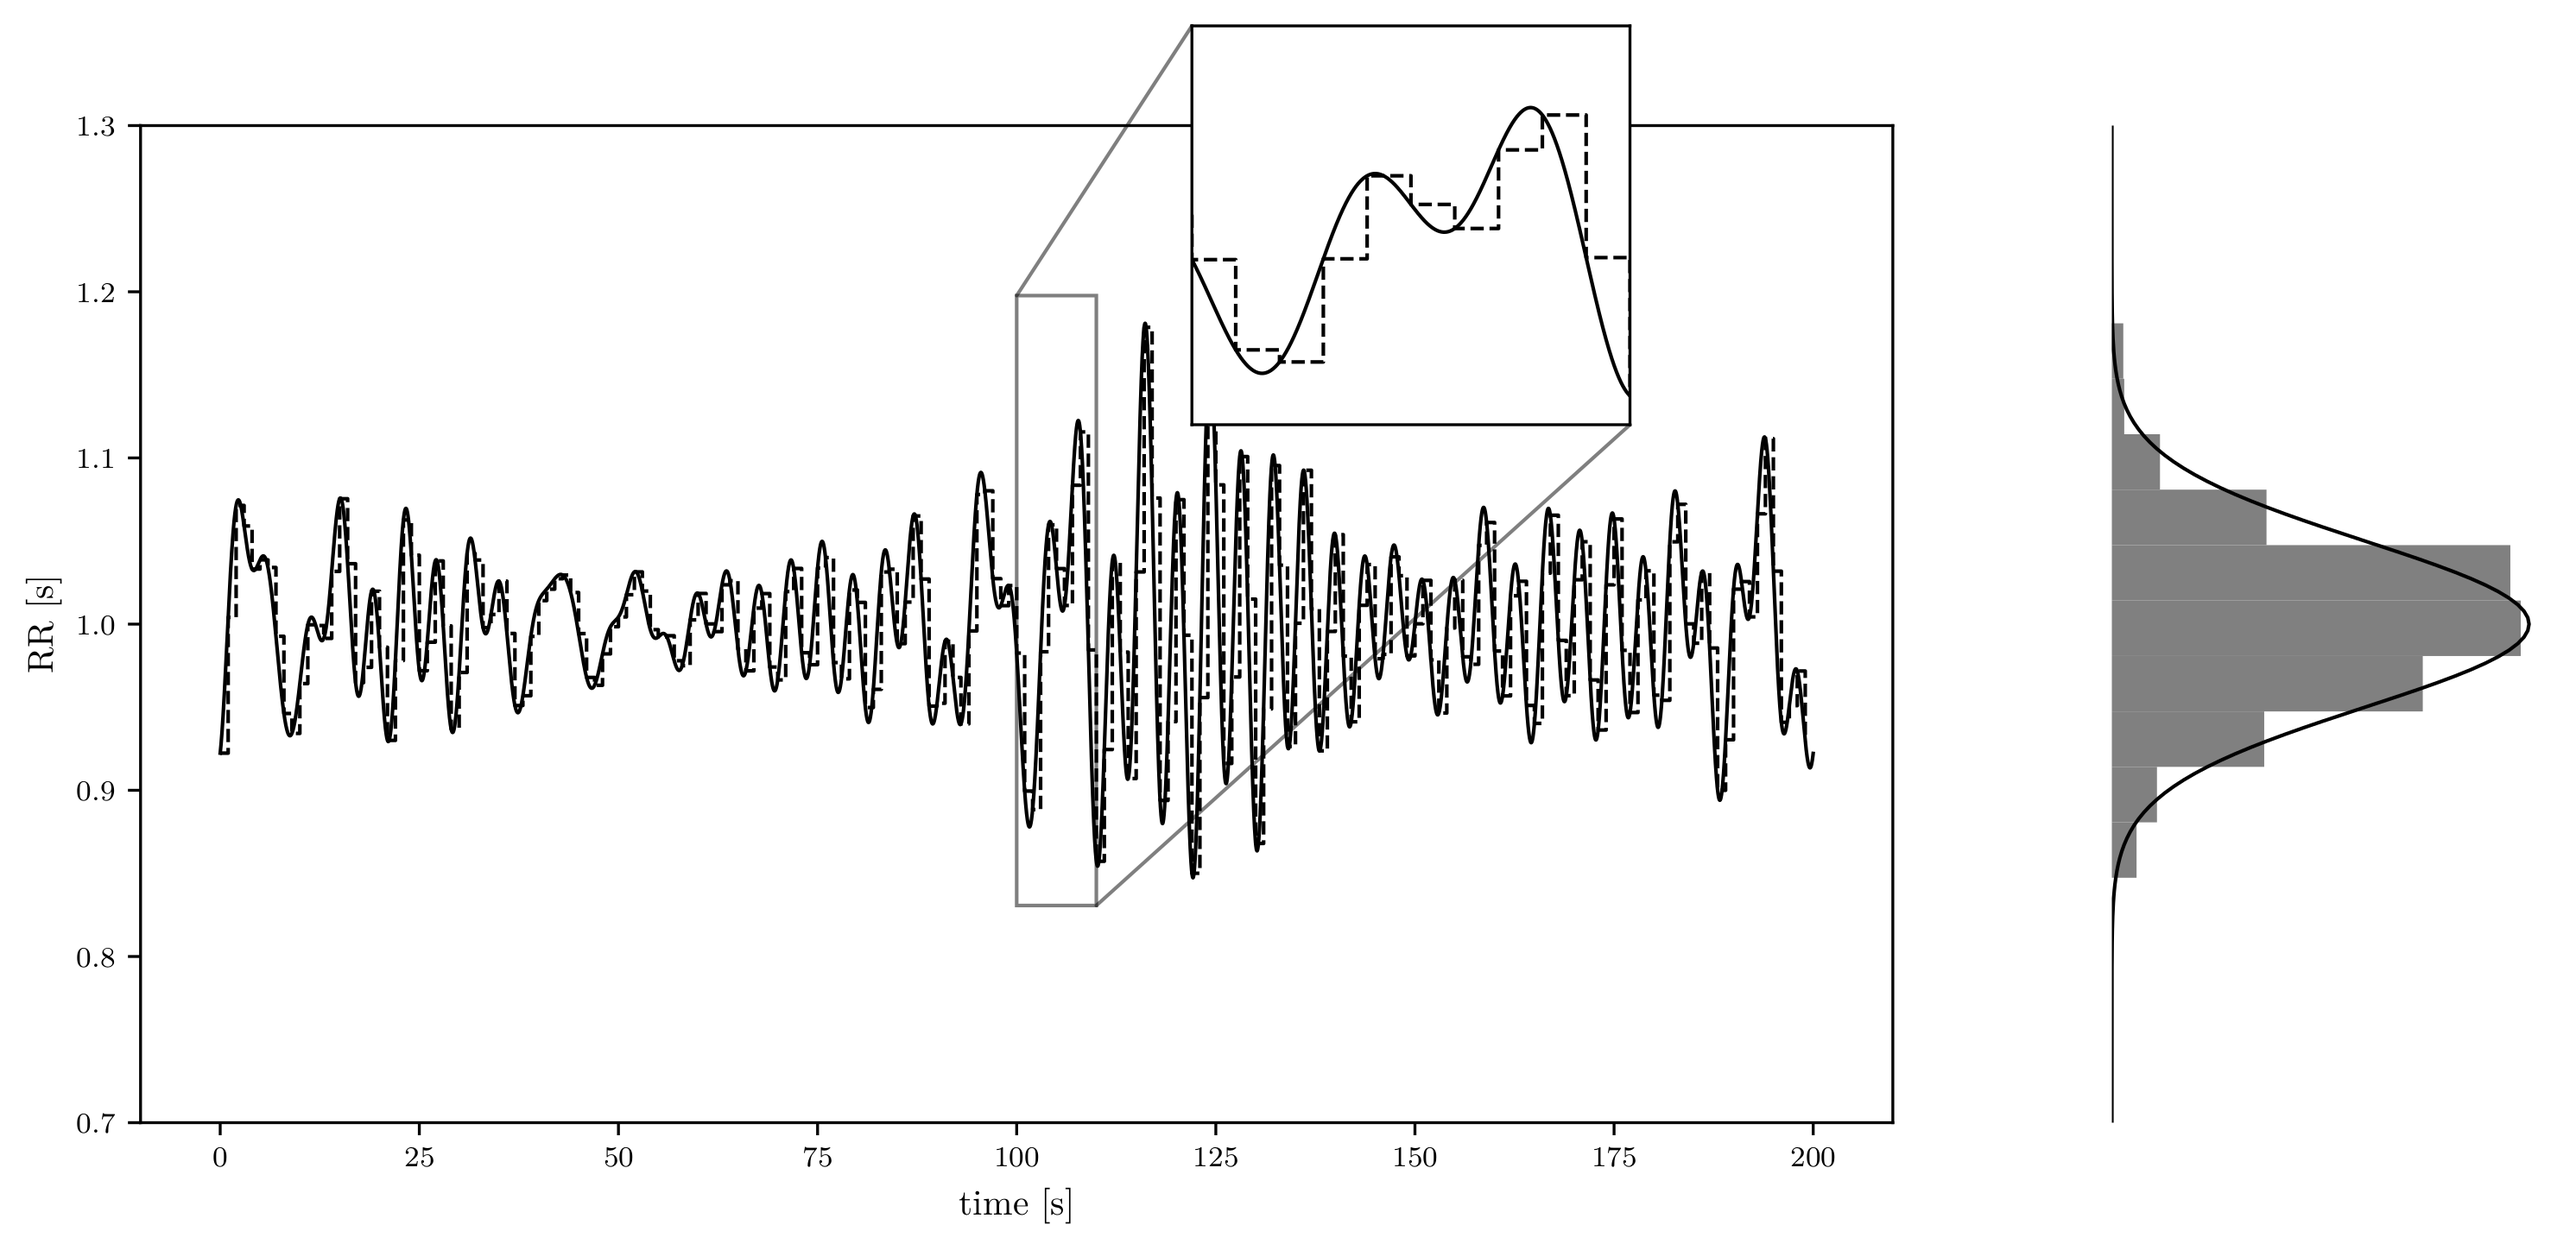
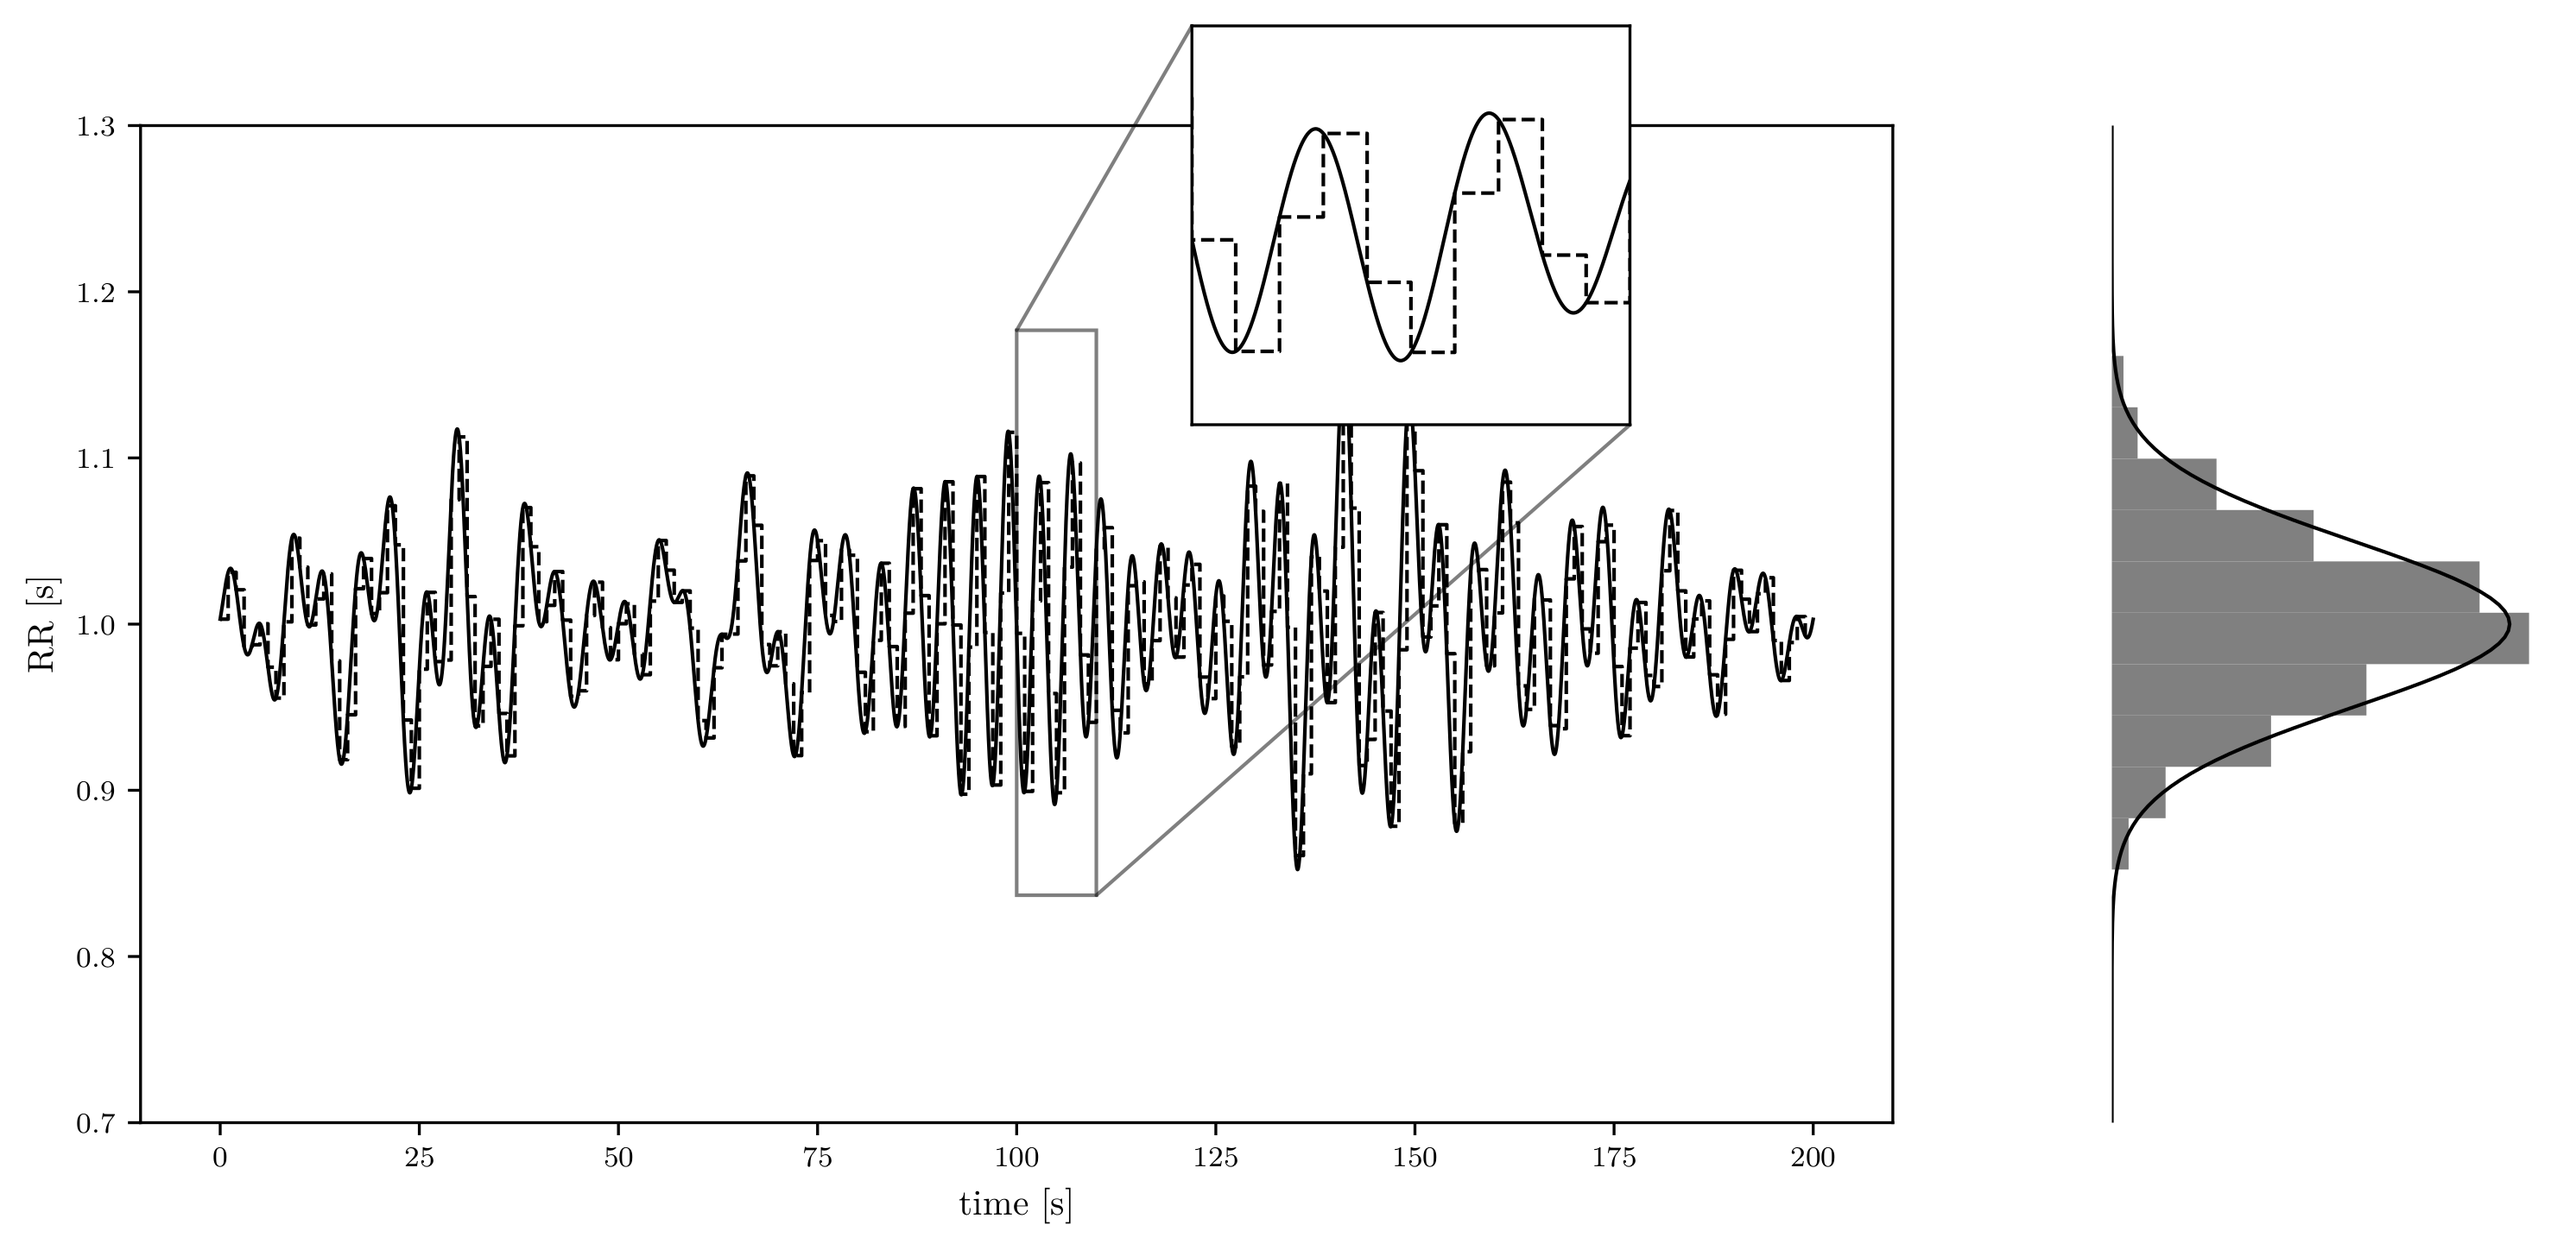
refactor for agnostic models

diff --git a/src/ecg_simulator/core.py b/src/ecg_simulator/core.py
@@ -4,6 +4,7 @@ import numpy as np
 import scipy as sp
 from typing import Callable, Literal, TypedDict, Tuple
 import colorednoise as cn 
+from abc import ABC, abstractmethod
 
 class FunFeatures(TypedDict):
     a: float # V   
@@ -11,37 +12,15 @@ class FunFeatures(TypedDict):
     σ: float # rad
 
 class BeatFeatures(TypedDict):
-    P: FunFeatures
-    Q: FunFeatures
-    R: FunFeatures
-    S: FunFeatures
-    T: FunFeatures
+    Waves: TypedDict
     RR: float
-
-def v(θ, fe: FunFeatures):
-    return ( θ % (2*np.pi) - fe['μ'] ) / fe['σ']
-
-def g(v, fe: FunFeatures):
-    return fe['a'] * np.exp( -.5 * v**2 )
-
-def dgdt(p, ω, fe: FunFeatures):
-    θ, _, _ = p
-    vi = v(θ, fe)
-    return - g(vi, fe) * vi * ω / fe['σ']
-
-def model(θ, fe: BeatFeatures):
-    return  g(v(θ, fe['P']), fe['P']) + \
-            g(v(θ, fe['Q']), fe['Q']) + \
-            g(v(θ, fe['R']), fe['R']) + \
-            g(v(θ, fe['S']), fe['S']) + \
-            g(v(θ, fe['T']), fe['T'])
 
 def repeater(iterable: Tuple, repeat: int = 1):
     for item in iter(iterable):
         for _ in range(repeat):
             yield item
 
-class Simulator:
+class AbstractSimulator(ABC):
 
     def __init__(self, fs: int, ζ: float = 0., resp: Tuple[float] = (0., 0.)) -> None:
         Ar, fr = resp 
@@ -50,27 +29,28 @@ class Simulator:
         self.fs = fs
         self.ζ = ζ
 
-    def system(self, t, p):
-        θ, ρ, z = p
-
-        # beat selector
+    def beat_selector(self, t):
         if t >= self.acc:
             self.fe = next(self.features)
             self.acc += self.fe['RR']
 
+    @abstractmethod
+    def dfdt(self, p, ω):
+        raise NotImplementedError
+    
+    def system(self, t, p):
+        θ, ρ, z = p
+        self.beat_selector(t)
         ω = 2*np.pi / self.fe['RR']
         return [ 
             ω,
             (1. - ρ ) * ρ,
-            dgdt(p, ω, self.fe['P']) + 
-            dgdt(p, ω, self.fe['Q']) + 
-            dgdt(p, ω, self.fe['R']) + 
-            dgdt(p, ω, self.fe['S']) + 
-            dgdt(p, ω, self.fe['T']) -
-            self.ζ * z + self.cr*np.sin(self.wr*t)
+            self.dfdt(p, ω) - self.ζ * z + self.cr*np.cos(self.wr*t)
         ]
     
-    def solve(self, features: Tuple[BeatFeatures]):
+    def solve(self, features: Tuple[BeatFeatures], init_values: Tuple[float] = (0., 1., 0.)):
+
+        θ0, ρ0, z0 = init_values
 
         self.features = iter(features)
         self.fe = next(self.features)
@@ -79,7 +59,6 @@ class Simulator:
         tend = np.sum([fe['RR'] for fe in features])
         t = np.arange(start=0, stop=tend, step=1./self.fs)
 
-        θ0, ρ0, z0 = 0., 1., 0.
         θ, ρ, z = sp.integrate.solve_ivp(
             self.system,
             t_span = (t[0], t[-1]),
@@ -135,27 +114,25 @@ def random_features(mfes: BeatFeatures, sfes: BeatFeatures, N: int=100, seed: in
     rng = np.random.default_rng(seed=seed)
     μs = vectorize(mfes)
     σs = vectorize(sfes)
-    vs = rng.normal(μs, σs, size=(N, 3 * ( len(mfes) - 1 ) + 1))
-    return [ modelize(l) for l in vs ]
+    vs = rng.normal(μs, σs, size=(N, 3*len(mfes['Waves']) + 1))
+    return [ modelize(l, mfes['Waves']) for l in vs ]
 
 def vectorize(fes: BeatFeatures) -> Tuple:
     vec = [ fes['RR'] ]
-    vec += fes['P'].values()
-    vec += fes['Q'].values()
-    vec += fes['R'].values()
-    vec += fes['S'].values()
-    vec += fes['T'].values()
+    for k, v in fes['Waves'].items():
+        vec += v.values()
     return vec
 
+def modelize(l: Tuple, WavesTemplate: TypedDict) -> BeatFeatures:
 
-def modelize(l: Tuple) -> BeatFeatures:
+    i = 0
+    for k in WavesTemplate.keys():
+        WavesTemplate[k] = FunFeatures(a=l[i+1], μ=l[i+2], σ=l[i+3])
+        i += 3
+
     return BeatFeatures(
+        Waves=WavesTemplate,
         RR=l[0],
-        P=FunFeatures(a=l[1], μ=l[2], σ=l[3]),
-        Q=FunFeatures(a=l[4], μ=l[5], σ=l[6]),
-        R=FunFeatures(a=l[7], μ=l[8], σ=l[9]),
-        S=FunFeatures(a=l[10], μ=l[11], σ=l[12]),
-        T=FunFeatures(a=l[13], μ=l[14], σ=l[15])
     )
 
 class FeatureEditor:
@@ -175,9 +152,7 @@ class FeatureEditor:
         self.set(lambda x: value, feature=feature)
 
     def set(self, fun: Callable, feature: Literal['a', 'μ', 'σ'] = None):
-        for k, v in self.model.items():
-            if k == 'RR':
-                continue
+        for k, v in self.model['Waves'].items():
             if feature is None:
                 v['a'] = fun(v['a'])
                 v['μ'] = fun(v['μ'])
@@ -217,7 +192,6 @@ def tachogram(f_params: Tuple[float] = (.1, .01, .25, .01, .5), t_params: Tuple[
     rr = rr_mean + series * rr_std/np.std(series) if scaling else series
 
     return (t, rr), (f, psd)
-
 class BiModal(sp.stats.rv_continuous):
     """Bimodal Gaussian distribution"""
     def __init__(self):

diff --git a/examples/usage.py b/examples/usage.py
@@ -1,0 +1,47 @@
+from src.ecg_simulator import AbstractSimulator, repeater
+from ecg_models import Human
+import numpy as np 
+
+from pathlib import Path
+from geometric_plotter import Plotter 
+filename = Path(__file__).stem
+
+# make a list with a beat feature for each beat. In this case, a Human model from ECG Models repo.
+fes = list(repeater([Human.example_beat], repeat=10))
+
+# Build the Simulator with the derivate of the model. For instance, five gaussian functions
+class Simulator(AbstractSimulator):
+    def dfdt(self, p, ω):
+        return Human.dfdt(p, ω, self.fe)
+    
+# make an instance 
+sim = Simulator(
+    fs=512., # sampling frequency
+    ζ=.1, # damping factor
+    resp =(.1, .75) # respiration baseline (amplitud, frequency)
+) 
+
+# then, run the solver
+t, θ, ρ, z = sim.solve(
+    features=fes,
+)
+
+# plotting
+p = Plotter(_2d=True, nrows=2, ncols=1, sharex=True, sharey=True, figsize=(15., 5.))
+
+p.axs[0].plot(t, z, '-k')
+p.axs[0].plot(t, .05*np.sin(2*np.pi*.75*t), linestyle='solid', color='gray')
+p.axs[0].set_ylabel('Voltage [mV]')
+p.axs[0].set_title('Noiseless \& noisy')
+
+ax1r = p.axs[0].twinx()
+ax1r.plot(t, θ % (2*np.pi), '--k')
+ax1r.set_ylabel('$\\theta \; mod \; 2\\pi$')
+
+sim.add_noise(z, beta=2, snr=4, seed=0, in_place=True)
+p.axs[1].plot(t, z, '-k')
+p.axs[1].set_ylabel('Voltage [mV]')
+p.axs[1].set_xlabel('time [s]')
+
+Plotter.save(folder='figs/', name=filename)
+Plotter.show()

diff --git a/examples/damping.py b/examples/damping.py
@@ -1,18 +1,14 @@
-from geometric_plotter import Plotter
-from src.ecg_simulator import BeatFeatures, FunFeatures, Simulator, repeater
+from src.ecg_simulator import *
+from ecg_models import Human
 from pathlib import Path
-import numpy as np
+from geometric_plotter import Plotter 
 filename = Path(__file__).stem
 
-fe = BeatFeatures(
-        P=FunFeatures(a=.2, μ=np.pi*2/3., σ=.25),
-        Q=FunFeatures(a=-.2, μ=np.pi*11/12., σ=.1),
-        R=FunFeatures(a=1.2, μ=np.pi*1., σ=.1),
-        S=FunFeatures(a=-.3, μ=np.pi*13/12., σ=.1),
-        T=FunFeatures(a=.4, μ=np.pi*3/2., σ=.4),
-        RR=1.
-)
-fes = list(repeater([fe], repeat=70))
+fes = list(repeater([Human.example_beat], repeat=70))
+class Simulator(AbstractSimulator):
+    def dfdt(self, p, ω):
+        return Human.dfdt(p, ω, self.fe)
+
 sim = Simulator(fs=512., ζ=.1)
 t, θ, ρ, z = sim.solve(features=fes)
 xlim, ylim = sim.get_exp_lims(z, fes)
@@ -22,7 +18,7 @@ p.axs.plot(t, z, '-k')
 p.axs.axvline(xlim, color='k', linestyle='--')
 p.axs.axhline(ylim, color='k', linestyle='--')
 p.axs.set_ylabel('Voltage [mV]')
-p.axs.set_title('Dumping effect and convergence')
+p.axs.set_title('Damping effect and convergence')
 
 p.save(folder='figs/', name=filename)
 p.show()

diff --git a/README.md b/README.md
@@ -2,40 +2,37 @@
 
 ECG Simulator based on ECGSYN which was originally publish in [A dynamical model for generating synthetic electrocardiogram signals](https://ieeexplore.ieee.org/document/1186732). 
 
-In this project, the implementation includes tools to add noise & feature variability to obtain realistic ECGs.
+The simulator is agnostic to the model and includes tools to add noise & feature variability to obtain realistic ECGs. 
 
-The model is a sum of Gaussian functions:
-$$f = \sum_{i=0}^{M-1} g_i $$
-where $g_i = a_i  \exp (-{v_i}^2/2)$ , $v_i = (\bullet -\mu_i)/\sigma_i$ and $M=5$.
-
-The ODE system is solved on polar coordinates:
-$$\dot{z} = \sum_{i\in\Gamma} \dot{g}_i(\theta\mod{2\pi}) - \zeta z + A \sin 2 \pi f t $$
+Assuming a model $f$ (see [ECG Models](https://github.com/sfcaracciolo/ecg_models/)), the following ODE system is solved on polar coordinates:
+$$\dot{z} = \dot{f}(\theta\mod{2\pi}) - \zeta z + A_r \omega_r \cos (\omega_r t) $$
 where $\dot{\theta} = \omega$ and $\dot{\rho} = \rho (1 - \rho)$.
 
 ### Usage
 ```python
-from ecg_simulator import BeatFeatures, Simulator, repeater
+from ecg_simulator import AbstractSimulator, repeater
+from ecg_models import Human
+import numpy as np 
 
-# create a list with the features of each beat to simulate
-fe = BeatFeatures(
-        P=FunFeatures(a=.2, μ=np.pi*2/3., σ=.25),
-        Q=FunFeatures(a=-.2, μ=np.pi*11/12., σ=.1),
-        R=FunFeatures(a=1.2, μ=np.pi*1., σ=.1),
-        S=FunFeatures(a=-.3, μ=np.pi*13/12., σ=.1),
-        T=FunFeatures(a=.4, μ=np.pi*3/2., σ=.4),
-        RR=1.
-)
-fes = list(repeater([fe], repeat=10))
+# make a list with a beat feature for each beat. 
+# In this case, a Human model from ECG Models repo.
+fes = list(repeater([Human.example_beat], repeat=10))
 
+# Build the Simulator with the derivate of the model.
+class Simulator(AbstractSimulator):
+    def dfdt(self, p, ω):
+        return Human.dfdt(p, ω, self.fe)
+    
+# make an instance 
 sim = Simulator(
     fs=512., # sampling frequency
     ζ=.1, # damping factor
-    resp = (0., 0.) # respiration baseline (amplitud, frequency)
-) # create the simulator
+    resp =(.15, .75) # respiration baseline (amplitud, frequency)
+) 
 
 # then, run the solver
 t, θ, ρ, z = sim.solve(
-    features=fes, # ten equal features
+    features=fes,
 )
 
 ```
@@ -45,11 +42,13 @@ To add coloured noise as $(1/f)^\beta$ to the ECG, simply
 ```python
 sim.add_noise(
     z, # ecg
-    beta=0, # exponent
-    snr=10, # signal-to-noise ratio
+    beta=2, # exponent
+    snr=4, # signal-to-noise ratio
     in_place=True # adding noise in z
 )
 ```
+
+<img src="figs/usage.png" alt="drawing" width=""/>
 
 To add variability in the features ```random_features``` help to build the features list, e.g., 
 
@@ -97,28 +96,13 @@ fes = tachogram_features(fe, rr, fs)
 
 ```
 
-#### Examples
-In all cases $\zeta = .1$ and the noise has $\beta = 2$ & $SNR = 4$.
+### Damping effect and convergence
 
-##### Case w/o variability in the features (noiseless & noisy)
-
-<img src="figs/single.png" alt="drawing" width=""/>
-
-##### Case with variability in the features (noiseless & noisy)
-
-<img src="figs/stat.png" alt="drawing" width=""/>
-
-##### Damping effect and convergence
-
-If `BeatFeature` list has only one item, after `solve` method you can get the convergence limit from `._lim` attribute
+If `BeatFeature` list has only one item, after `solve` method you can get the convergence limit from `sim.get_exp_lims(z, fes)` attribute
 
 <img src="figs/damping.png" alt="drawing" width=""/>
 
-##### Case with respiration drift (noiseless & noisy)
-
-<img src="figs/resp.png" alt="drawing" width=""/>
-
-##### Example of PSD and RR tachogram
+### PSD and RR tachogram
 
 PSD parameters: $f_1=.1$, $c_1=c_2=.01$, $f_2=.25$, LF/HF ratio $.5$
 
@@ -127,9 +111,3 @@ PSD parameters: $f_1=.1$, $c_1=c_2=.01$, $f_2=.25$, LF/HF ratio $.5$
 RR tachgram for the above PSD with scaling for $RR$ mean $1.$ and $RR$ deviation equal to $.05$. The step plot shows the RR series that apply on the simulation.
 
 <img src="figs/rr.png" alt="drawing" width=""/>
-
-##### Case w/RR process (noiseless \& noisy)
-
-PSD parameters equal to above and scaling $1.$ and $.2$ for RR parameters.
-
-<img src="figs/rrsim.png" alt="drawing" width=""/>
